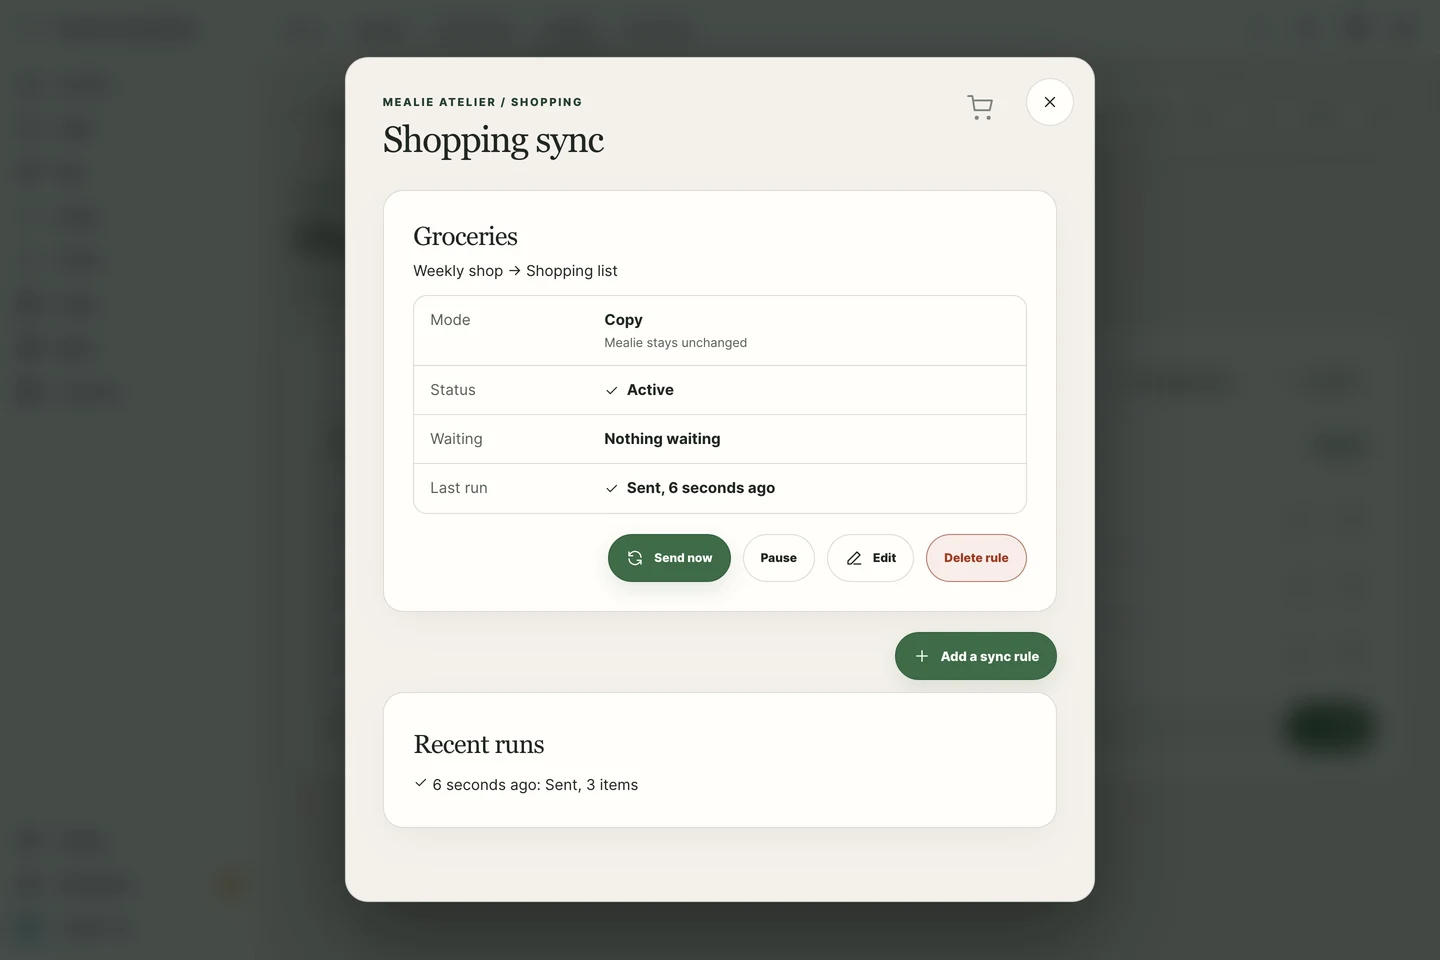
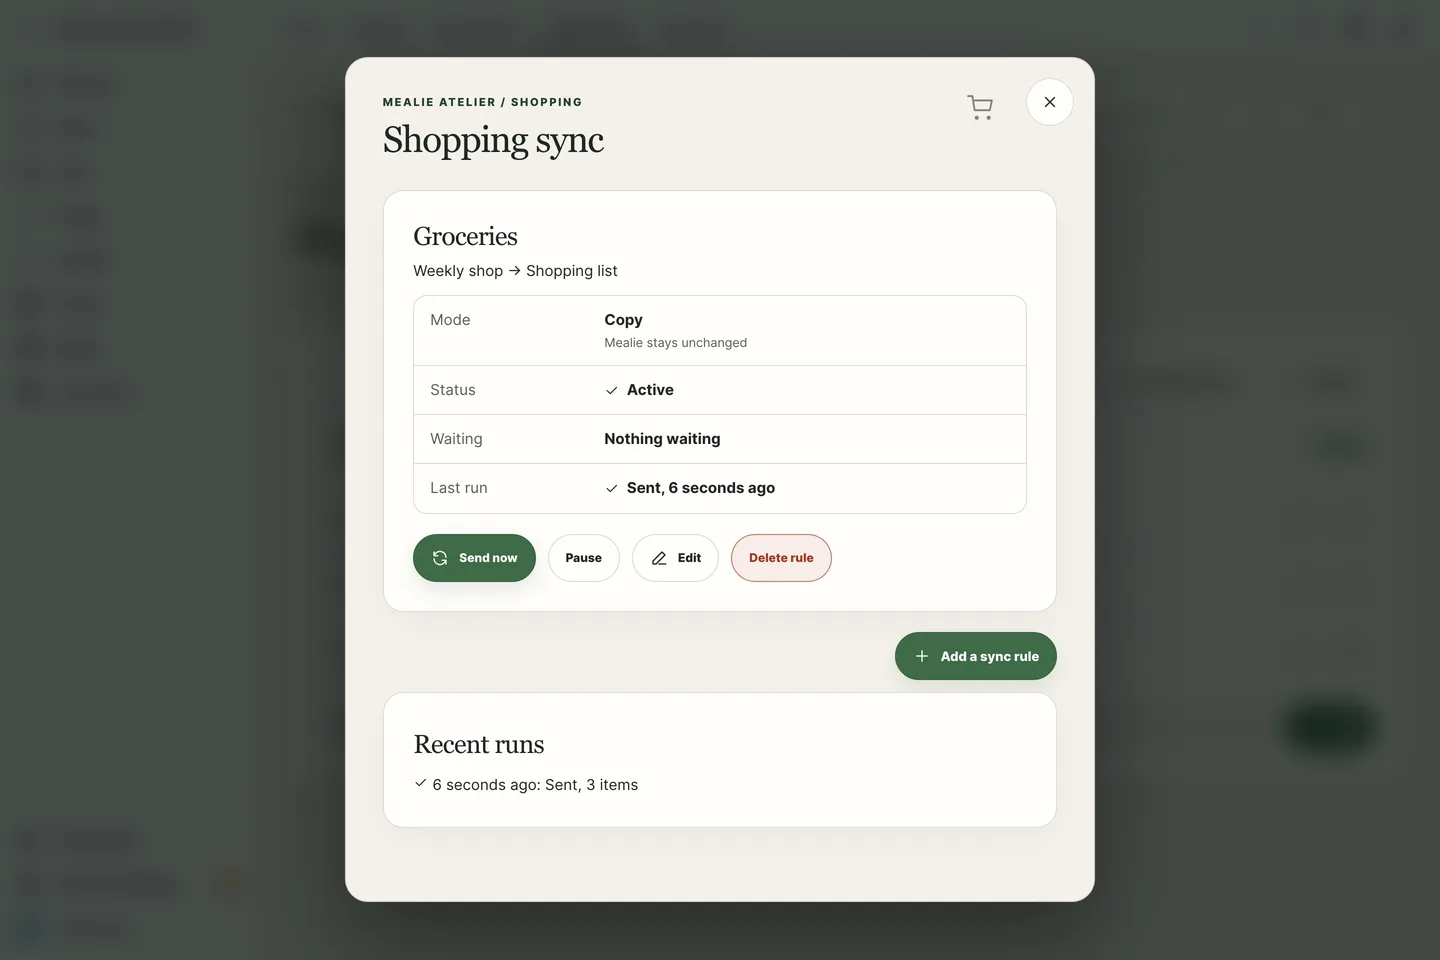
Re-arm destination retry after restart, fix no-key options help, recapture sync status shot

Changed region(s): [[0.2812, 0.5312, 0.625, 0.625], [0.6562, 0.5625, 0.7188, 0.5938]]

diff --git a/tests/test_shopping_sync_destination_retry.py b/tests/test_shopping_sync_destination_retry.py
@@ -194,3 +194,56 @@ async def test_fallback_backoff_is_bounded(
     await tick(hass, freezer, 7200)
     assert len(sync.store.data["audit"]) == before
     assert rule_id in sync._dest_listeners
+
+
+async def restart(sync: SyncManager, hass: HomeAssistant) -> None:
+    """Drop the in-memory retry state the way a Home Assistant restart does, then run startup."""
+    for rule_id in list(sync.rules):
+        sync._disarm_destination_retry(rule_id)
+    sync._on_started(hass)
+    await hass.async_block_till_done()
+
+
+async def test_restart_rearms_waiting_rule_and_sends_when_destination_returns(
+    hass: HomeAssistant,
+    sync: SyncManager,
+    mealie: FakeMealie,
+    bring: FakeTodo,
+    freezer: FrozenDateTimeFactory,
+):
+    rule_id = await waiting_rule(sync, mealie, bring)
+    await restart(sync, hass)
+    assert rule_id in sync._dest_listeners
+
+    bring.set_available(True)
+    await hass.async_block_till_done()
+    await tick(hass, freezer, 31)
+
+    assert bring.calls == ["1 Milch", "1 Brot"]
+    assert sync.rules[rule_id]["last_run"]["outcome"] == "sent"
+
+
+async def test_restart_does_not_arm_paused_or_inactive_rules(
+    hass: HomeAssistant, sync: SyncManager, mealie: FakeMealie, bring: FakeTodo
+):
+    rule_id = await waiting_rule(sync, mealie, bring)
+    await sync.async_set_paused(rule_id, True)
+    await restart(sync, hass)
+    assert not sync._dest_listeners
+    assert not sync._dest_timers
+
+    await sync.async_set_paused(rule_id, False)
+    sync._disarm_destination_retry(rule_id)
+    sync.rules[rule_id]["activated"] = False
+    await restart(sync, hass)
+    assert not sync._dest_listeners
+    assert not sync._dest_timers
+
+
+async def test_restart_does_not_arm_rule_without_unavailable_outcome(
+    hass: HomeAssistant, sync: SyncManager, mealie: FakeMealie, bring: FakeTodo
+):
+    mealie.add(mealie_item("a", note="Milch"))
+    await activate(sync)
+    await restart(sync, hass)
+    assert not sync._dest_listeners

diff --git a/tests/test_options_key_wording.py b/tests/test_options_key_wording.py
@@ -1,0 +1,49 @@
+"""The options key help states the saved state once and only tells a saved key to be kept."""
+
+from __future__ import annotations
+
+import json
+from pathlib import Path
+
+import pytest
+
+BASE = Path(__file__).resolve().parents[1] / "custom_components/mealie_atelier"
+FILES = {
+    "strings": BASE / "strings.json",
+    "en": BASE / "translations/en.json",
+    "de": BASE / "translations/de.json",
+}
+KEEP = {
+    "strings": "leave it empty to keep it.",
+    "en": "leave it empty to keep it.",
+    "de": "Leer lassen behält ihn.",
+}
+STATE = {
+    "strings": ("No key is saved.", "A key is saved."),
+    "en": ("No key is saved.", "A key is saved."),
+    "de": ("Es ist kein Schlüssel gespeichert.", "Ein Schlüssel ist gespeichert."),
+}
+# step -> (usda key saved, ai key saved)
+STEPS = {
+    "init": (False, False),
+    "init_fdc": (True, False),
+    "init_ai": (False, True),
+    "init_both": (True, True),
+}
+
+
+@pytest.mark.parametrize("lang", FILES)
+@pytest.mark.parametrize("step", STEPS)
+@pytest.mark.parametrize("index,field", [(0, "usda_fdc_api_key"), (1, "openai_api_key")])
+def test_keep_sentence_only_when_a_key_is_saved(lang, step, index, field):
+    data = json.loads(FILES[lang].read_text(encoding="utf-8"))
+    text = data["options"]["step"][step]["data_description"][field]
+    saved = STEPS[step][index]
+    none_text, saved_text = STATE[lang]
+    assert (KEEP[lang] in text) is saved
+    assert (saved_text in text) is saved
+    assert (none_text in text) is (not saved)
+
+
+def test_strings_and_english_stay_identical():
+    assert FILES["strings"].read_text(encoding="utf-8") == FILES["en"].read_text(encoding="utf-8")

diff --git a/custom_components/mealie_atelier/shopping_sync/engine.py b/custom_components/mealie_atelier/shopping_sync/engine.py
@@ -226,6 +226,11 @@ class SyncManager:
                 for record in self._rule_records(rule["id"])
             ):
                 self._schedule_run(rule["id"], "startup", SYNC_STARTUP_DELAY)
+            elif (rule.get("last_run") or {}).get("outcome") == "destination_unavailable" and any(
+                record["state"] == RecordState.PENDING for record in self._rule_records(rule["id"])
+            ):
+                # The retry listener and timers are in memory only: re-arm after a restart.
+                self._arm_destination_retry(rule["id"])
         self._refresh_watchers()
 
     async def async_stop(self) -> None:

diff --git a/CHANGELOG.md b/CHANGELOG.md
@@ -9,6 +9,9 @@ All notable changes to the Mealie Atelier Bridge are documented here. The format
 ### Fixed
 
 - Options key help no longer prints raw ✓/✗ glyphs inside the sentence (the help text states in words whether a key is saved), and the re-authentication token help adds only new information.
+- Smart Shopping Sync: items waiting for an unavailable destination are retried again after a Home Assistant restart instead of staying at "waiting" until the next manual send.
+- Options help for the USDA and AI keys no longer tells you to leave the field empty to keep a key when none is saved.
+- The Smart Shopping Sync screenshot in the README shows the left-aligned rule actions.
 - Smart Shopping Sync: items left waiting while the destination list was unavailable go out on their own once it is reachable again, with a few timed retries as a fallback.
 - Recipe editor: saving other servings also updates a yield text that starts with the old number, so "1,5 Portionen" becomes "2,5 Portionen". Other yield texts stay as they are.
 - Setup: an address without `http://` or `https://` gets an error that names the scheme instead of talking about spaces. Spaces in the address keep their own error.
